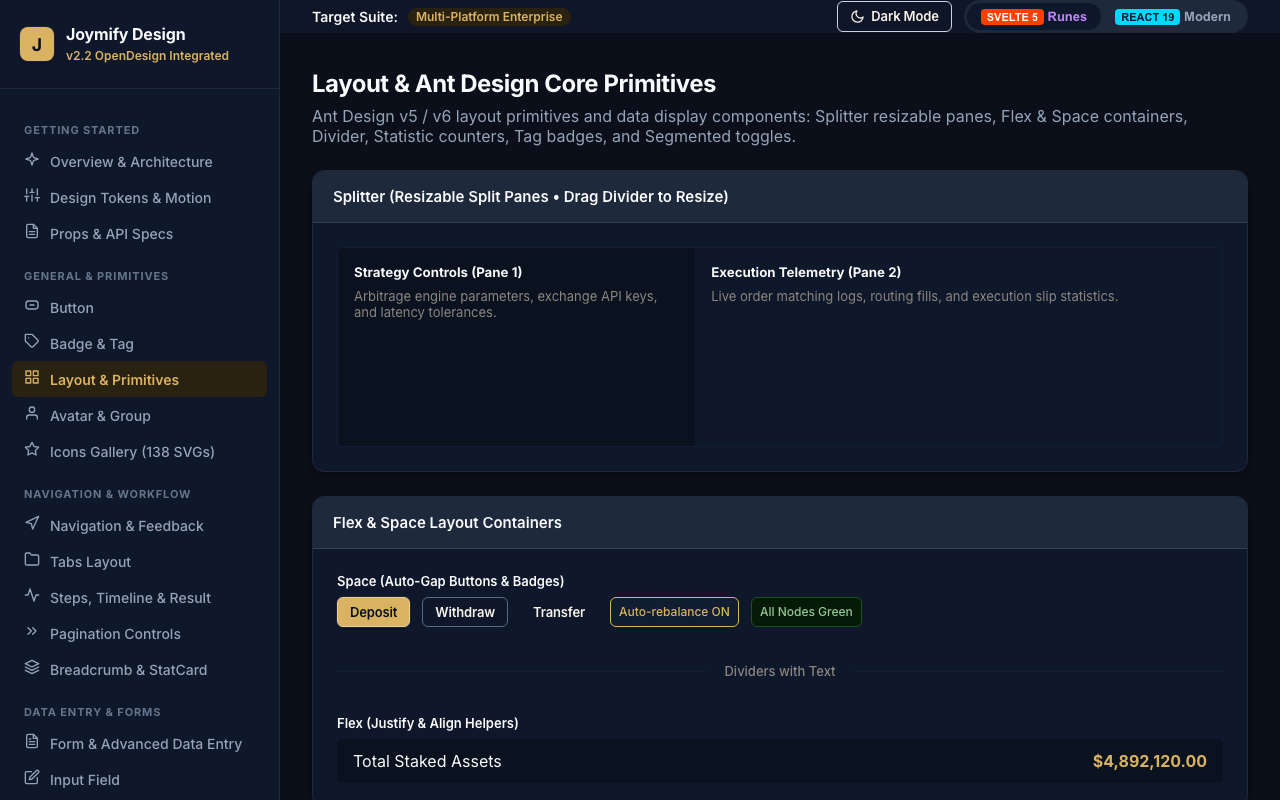
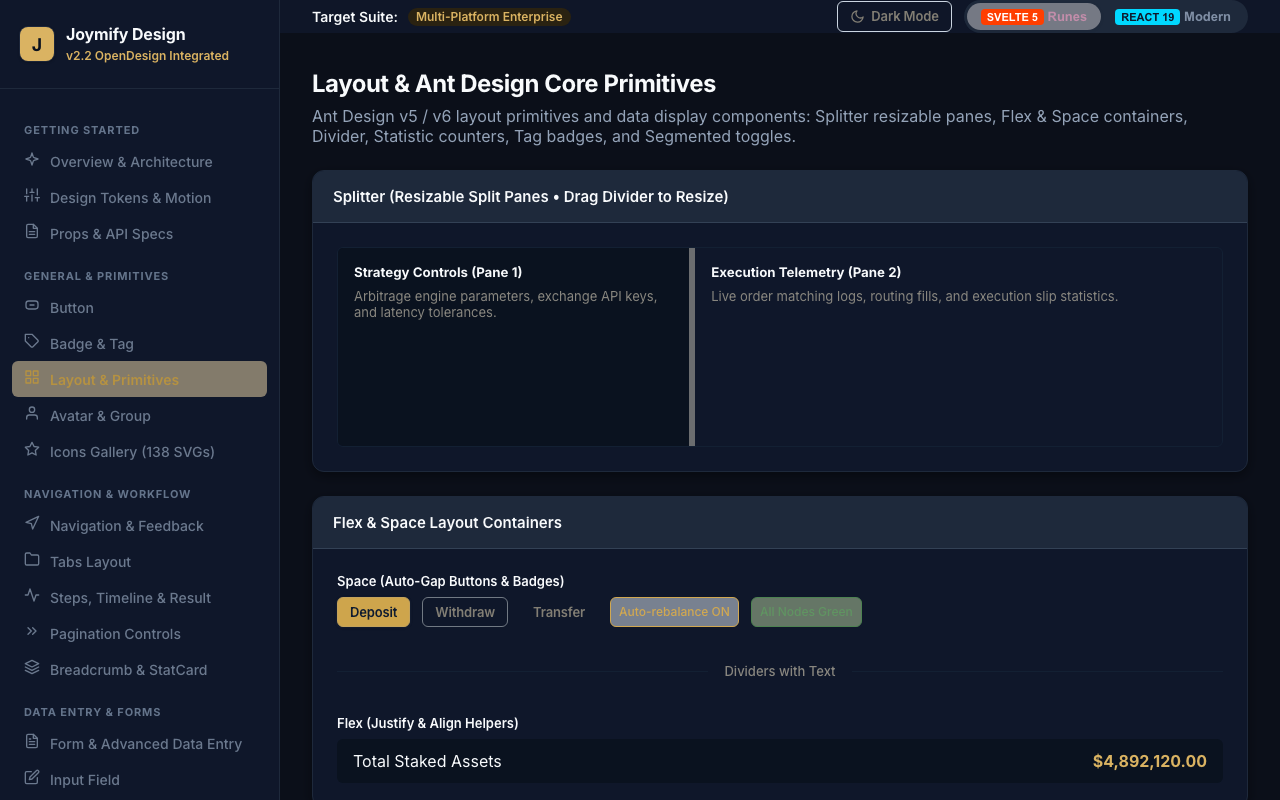
fix(tokens): widen dark surface steps - raised uses brand navy-500, border-subtle navy-700
Visual re-check found card (#101b2b) and raised (#111d30) one lightness
step apart, collapsing when consumed. Dark raised now maps to navy-500
#14253e, border-subtle to navy-700, and navy 600/700/800 OKLCH L widened
to 0.252/0.242/0.222 (950 floor unchanged at #0a121f).

Verified: pnpm --filter @joymify/tokens test 11/11 pass; bash
scripts/epic-check.sh exit 0; dark screenshots regenerated (4 passed).
Slate literals seen in the hub render belong to apps/storybook-hub and
component sources (Waves 2-3, 5), not tokens; recorded in the relay.

diff --git a/packages/tokens/dist/theme.css b/packages/tokens/dist/theme.css
@@ -5,9 +5,9 @@
   --joy-color-navy-300: #7487a5;
   --joy-color-navy-400: #566a87;
   --joy-color-navy-500: #14253e;
-  --joy-color-navy-600: #111f34;
-  --joy-color-navy-700: #111d30;
-  --joy-color-navy-800: #101b2b;
+  --joy-color-navy-600: #142238;
+  --joy-color-navy-700: #132033;
+  --joy-color-navy-800: #111b2b;
   --joy-color-navy-900: #0d1624;
   --joy-color-navy-950: #0a121f;
   --joy-color-gold-50: #fbf4e6;
@@ -219,10 +219,10 @@
 
 [data-theme="dark"] {
   --joy-surface-canvas: #0d1624;
-  --joy-surface-card: #101b2b;
-  --joy-surface-raised: #111d30;
+  --joy-surface-card: #111b2b;
+  --joy-surface-raised: #14253e;
   --joy-surface-sunken: #0a121f;
-  --joy-surface-overlay: #101b2b;
+  --joy-surface-overlay: #111b2b;
   --joy-surface-inverse: #f8f3e8;
   --joy-text-primary: #f8f3e8;
   --joy-text-secondary: #bab7b0;
@@ -230,7 +230,7 @@
   --joy-text-inverse: #1f1c13;
   --joy-text-link: #dab362;
   --joy-text-on-accent: #0a121f;
-  --joy-border-subtle: #111f34;
+  --joy-border-subtle: #132033;
   --joy-border-default: #566a87;
   --joy-border-strong: #7487a5;
   --joy-border-focus: #dab362;
@@ -268,10 +268,10 @@
 @media (prefers-color-scheme: dark) {
   :root:not([data-theme="light"]) {
   --joy-surface-canvas: #0d1624;
-  --joy-surface-card: #101b2b;
-  --joy-surface-raised: #111d30;
+  --joy-surface-card: #111b2b;
+  --joy-surface-raised: #14253e;
   --joy-surface-sunken: #0a121f;
-  --joy-surface-overlay: #101b2b;
+  --joy-surface-overlay: #111b2b;
   --joy-surface-inverse: #f8f3e8;
   --joy-text-primary: #f8f3e8;
   --joy-text-secondary: #bab7b0;
@@ -279,7 +279,7 @@
   --joy-text-inverse: #1f1c13;
   --joy-text-link: #dab362;
   --joy-text-on-accent: #0a121f;
-  --joy-border-subtle: #111f34;
+  --joy-border-subtle: #132033;
   --joy-border-default: #566a87;
   --joy-border-strong: #7487a5;
   --joy-border-focus: #dab362;

diff --git a/packages/tokens/dist/index.js b/packages/tokens/dist/index.js
@@ -5,9 +5,9 @@ export const tokens = {
   "color-navy-300": "#7487a5",
   "color-navy-400": "#566a87",
   "color-navy-500": "#14253e",
-  "color-navy-600": "#111f34",
-  "color-navy-700": "#111d30",
-  "color-navy-800": "#101b2b",
+  "color-navy-600": "#142238",
+  "color-navy-700": "#132033",
+  "color-navy-800": "#111b2b",
   "color-navy-900": "#0d1624",
   "color-navy-950": "#0a121f",
   "color-gold-50": "#fbf4e6",
@@ -164,7 +164,7 @@ export const tokens = {
   "color-surface-elevated": "#ffffff",
   "color-surface-dark-base": "#0a121f",
   "color-surface-dark-card": "#0d1624",
-  "color-surface-dark-subtle": "#101b2b",
+  "color-surface-dark-subtle": "#111b2b",
   "surface-frosted": "rgba(255, 255, 255, 0.82)",
   "backdrop-blur": "blur(12px)",
   "color-border-base": "#88867f",

diff --git a/packages/tokens/test/wave-fix.test.js b/packages/tokens/test/wave-fix.test.js
@@ -14,7 +14,7 @@ test('dark surfaces use distinct navy steps rather than a near-black literal', (
   assert.equal(surface.sunken.value, '{color.navy.950}');
   assert.equal(surface.canvas.value, '{color.navy.900}');
   assert.equal(surface.card.value, '{color.navy.800}');
-  assert.equal(surface.raised.value, '{color.navy.700}');
+  assert.equal(surface.raised.value, '{color.navy.500}');
 });
 
 test('navy-950 retains a visible navy floor for sunken dark surfaces', () => {

diff --git a/packages/tokens/dist/tailwind-theme.css b/packages/tokens/dist/tailwind-theme.css
@@ -5,9 +5,9 @@
   --color-joy-navy-300: #7487a5;
   --color-joy-navy-400: #566a87;
   --color-joy-navy-500: #14253e;
-  --color-joy-navy-600: #111f34;
-  --color-joy-navy-700: #111d30;
-  --color-joy-navy-800: #101b2b;
+  --color-joy-navy-600: #142238;
+  --color-joy-navy-700: #132033;
+  --color-joy-navy-800: #111b2b;
   --color-joy-navy-900: #0d1624;
   --color-joy-navy-950: #0a121f;
   --color-joy-gold-50: #fbf4e6;

diff --git a/.claude/refined_backlog/F-036-wave-1-semantic-token-foundation-light-d/research/contrast-table-after.md b/.claude/refined_backlog/F-036-wave-1-semantic-token-foundation-light-d/research/contrast-table-after.md
@@ -25,21 +25,21 @@
 | --joy-status-info-fg (#17446f) on --joy-status-info-bg (#e6f0f9) | Light | Status Text / Surface | 8.69:1 | ≥ 4.5:1 | PASS |
 | --joy-status-info-fg (#17446f) on --joy-surface-canvas (#f8f3e8) | Light | Status Text / Surface | 9.07:1 | ≥ 4.5:1 | PASS |
 | --joy-text-primary (#f8f3e8) on --joy-surface-canvas (#0d1624) | Dark | Text / Surface | 16.40:1 | ≥ 4.5:1 | PASS |
-| --joy-text-primary (#f8f3e8) on --joy-surface-card (#101b2b) | Dark | Text / Surface | 15.64:1 | ≥ 4.5:1 | PASS |
-| --joy-text-primary (#f8f3e8) on --joy-surface-raised (#111d30) | Dark | Text / Surface | 15.28:1 | ≥ 4.5:1 | PASS |
+| --joy-text-primary (#f8f3e8) on --joy-surface-card (#111b2b) | Dark | Text / Surface | 15.61:1 | ≥ 4.5:1 | PASS |
+| --joy-text-primary (#f8f3e8) on --joy-surface-raised (#14253e) | Dark | Text / Surface | 13.91:1 | ≥ 4.5:1 | PASS |
 | --joy-text-secondary (#bab7b0) on --joy-surface-canvas (#0d1624) | Dark | Text / Surface | 9.06:1 | ≥ 4.5:1 | PASS |
-| --joy-text-secondary (#bab7b0) on --joy-surface-card (#101b2b) | Dark | Text / Surface | 8.64:1 | ≥ 4.5:1 | PASS |
+| --joy-text-secondary (#bab7b0) on --joy-surface-card (#111b2b) | Dark | Text / Surface | 8.63:1 | ≥ 4.5:1 | PASS |
 | --joy-text-muted (#88867f) on --joy-surface-canvas (#0d1624) | Dark | Text / Surface | 4.98:1 | ≥ 4.5:1 | PASS |
-| --joy-text-muted (#88867f) on --joy-surface-card (#101b2b) | Dark | Text / Surface | 4.75:1 | ≥ 4.5:1 | PASS |
+| --joy-text-muted (#88867f) on --joy-surface-card (#111b2b) | Dark | Text / Surface | 4.74:1 | ≥ 4.5:1 | PASS |
 | --joy-text-link (#dab362) on --joy-surface-canvas (#0d1624) | Dark | Text / Surface | 9.16:1 | ≥ 4.5:1 | PASS |
-| --joy-text-link (#dab362) on --joy-surface-card (#101b2b) | Dark | Text / Surface | 8.74:1 | ≥ 4.5:1 | PASS |
+| --joy-text-link (#dab362) on --joy-surface-card (#111b2b) | Dark | Text / Surface | 8.73:1 | ≥ 4.5:1 | PASS |
 | --joy-accent-text (#dab362) on --joy-surface-canvas (#0d1624) | Dark | Accent Text / Surface | 9.16:1 | ≥ 4.5:1 | PASS |
-| --joy-accent-text (#dab362) on --joy-surface-card (#101b2b) | Dark | Accent Text / Surface | 8.74:1 | ≥ 4.5:1 | PASS |
+| --joy-accent-text (#dab362) on --joy-surface-card (#111b2b) | Dark | Accent Text / Surface | 8.73:1 | ≥ 4.5:1 | PASS |
 | --joy-text-on-accent (#0a121f) on --joy-accent-default (#dab362) | Dark | Text / Surface | 9.48:1 | ≥ 4.5:1 | PASS |
 | --joy-border-default (#566a87) on --joy-surface-canvas (#0d1624) | Dark | Border / Surface | 3.29:1 | ≥ 3:1 | PASS |
-| --joy-border-default (#566a87) on --joy-surface-card (#101b2b) | Dark | Border / Surface | 3.14:1 | ≥ 3:1 | PASS |
+| --joy-border-default (#566a87) on --joy-surface-card (#111b2b) | Dark | Border / Surface | 3.13:1 | ≥ 3:1 | PASS |
 | --joy-focus-ring (#dab362) on --joy-surface-canvas (#0d1624) | Dark | Focus Ring | 9.16:1 | ≥ 3:1 | PASS |
-| --joy-focus-ring (#dab362) on --joy-surface-card (#101b2b) | Dark | Focus Ring | 8.74:1 | ≥ 3:1 | PASS |
+| --joy-focus-ring (#dab362) on --joy-surface-card (#111b2b) | Dark | Focus Ring | 8.73:1 | ≥ 3:1 | PASS |
 | --joy-status-success-fg (#93c794) on --joy-status-success-bg (#061b07) | Dark | Status Text / Surface | 9.28:1 | ≥ 4.5:1 | PASS |
 | --joy-status-success-fg (#93c794) on --joy-surface-canvas (#0d1624) | Dark | Status Text / Surface | 9.36:1 | ≥ 4.5:1 | PASS |
 | --joy-status-warning-fg (#dfae68) on --joy-status-warning-bg (#241100) | Dark | Status Text / Surface | 9.00:1 | ≥ 4.5:1 | PASS |

diff --git a/.claude/refined_backlog/F-036-wave-1-semantic-token-foundation-light-d/research/handoff-relay.md b/.claude/refined_backlog/F-036-wave-1-semantic-token-foundation-light-d/research/handoff-relay.md
@@ -54,3 +54,8 @@ purple=0 hex-literals-in-build.js=4 dark-joy-selectors=0 background-clip-text=0 
 - LOW | packages/tokens/scripts/sweep-literals.mjs:511-516 | catch-all rgba -> elevation-1 remap is property-blind. One-shot migration script; add a header comment stating it is not re-runnable and leave the logic.
 - LOW | screens-f036.spec.ts skips without F036_SCREENS=1 by design (plan C3). No change.
 - OK: OKLCH round-trip exact for #14253e; contrast gate last-wins parsing; index.d.ts passes `tsc --noEmit --strict`.
+
+## Post-fix visual re-check (2026-09-22) and orchestrator follow-up
+- Re-check verdict: inset surfaces now navy, no black holes; borders visible not heavy. Two follow-ups:
+  1. Rendered hub chrome samples as Tailwind slate (#0b0f19/#0f172a/#1e293b): those literals live in apps/storybook-hub/build.js (334 lint WARNs, Wave 5 / I-040) and 11 component sources (Waves 2-3), not in the tokens (0 slate hexes in dist). Deferred by plan design; lint-colors flips to strict per wave.
+  2. card (#101b2b) vs raised (#111d30) too close once actually consumed. Fixed here: dark raised -> navy-500 (#14253e, brand navy), border-subtle -> navy-700, navy 600/700/800 L widened to 0.252/0.242/0.222. 11/11 token tests, epic-check exit 0, dark screenshots regenerated.

diff --git a/.claude/refined_backlog/F-036-wave-1-semantic-token-foundation-light-d/plan.md b/.claude/refined_backlog/F-036-wave-1-semantic-token-foundation-light-d/plan.md
@@ -26,4 +26,4 @@ Spec: `spec.md` (same folder). Evidence: `research/audit-tokens.md`, `research/c
 - [x] C3. Evidence: with the hub built, take Playwright screenshots of `#view-primitives` (or the "General & Primitives" view) at 375×812 and 1280×800 in light and dark into `.claude/refined_backlog/F-036-*/research/screens/`; confirm visually no purple, visible borders on dark, no black shadow halos. Attach paths to this plan.
   - Evidence: `research/screens/primitives-{light,dark}-{375x812,1280x800}.png`; visual verdict: `research/screens/README.md`.
 - [x] C4. Verify: `bash scripts/precheck.sh` exit 0; `bash scripts/epic-check.sh` exit 0. Commit: `chore(gates): color lint, epic-check, precheck wiring, wave 1 evidence`.
-- [ ] C5. Quality gate as A6; then hand back (do not ship).
+- [x] C5. Quality gate as A6; then hand back (do not ship).
